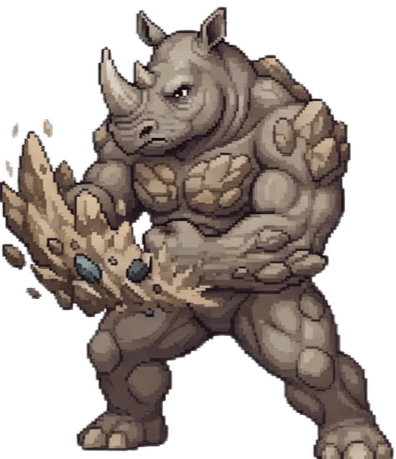
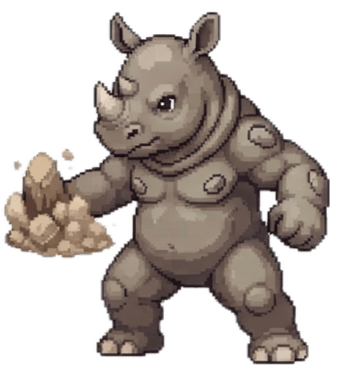
Corregir naming de sprites tras el merge: Rinoceronte y Cernunnos
Rinoceronte pasó a tier 2 en el commit anterior; los 3 pngs subidos
por GitHub seguían el naming antiguo de tier 1, así que se desplazan
un nivel (comun->infrecuente->raro->epico). cernunnos_epico.png había
llegado con el nombre genérico "epico.png" sin renombrar.

Auditoría completa de sprites tras esto: 743/743 personajes y 44/44
zonas con su imagen correspondiente, sin archivos huérfanos.

Claude-Session: https://claude.ai/code/session_01WGc1nBHYXG8wYqh9mMefTY

diff --git a/TODO.md b/TODO.md
@@ -5713,15 +5713,19 @@ Cinco puntos más, con capturas de pantalla reales del usuario jugando:
       duplicados ni referencias rotas tras el cambio.
 - [x] Rinoceronte pasado de tier 1 a tier 2 (petición del usuario): un
       solo cambio de parámetro en su `addFamily` (1 -> 2), que además
-      recalcula solo el nombre de archivo de imagen esperado por cada
-      forma (común/infrecuente/raro -> infrecuente/raro/épico), sin tocar
-      nombres, lore ni el resto de sus datos. Nota importante para el
-      usuario: no existía NINGÚN sprite de Rinoceronte en
-      `assets/creatures` ni antes ni después del cambio (comprobado con
-      la auditoría del punto siguiente), así que no ha habido ningún
-      archivo que renombrar — cuando subas su arte, debe llamarse
-      `rinoceronte_infrecuente.png` / `_raro.png` / `_epico.png` (ya no
-      `_comun.png`).
+      recalcula el nombre de archivo de imagen esperado por cada forma
+      (común/infrecuente/raro -> infrecuente/raro/épico), sin tocar
+      nombres, lore ni el resto de sus datos. El usuario pidió además
+      renombrar los pngs para que se ajustaran: en el momento del cambio
+      no existía ningún sprite todavía, pero un `git merge` posterior
+      (ver más abajo) trajo 3 archivos subidos por el usuario con el
+      naming ANTIGUO (`rinoceronte_comun/infrecuente/raro.png`, arte de
+      cría/adulto/forma final en ese orden). Renombrados a mano con
+      `git mv` para conservar el desplazamiento correcto (comprobado
+      visualmente que el contenido de cada imagen encaja con su nueva
+      rareza): `_raro`->`_epico` (forma final), `_infrecuente`->`_raro`
+      (adulto), `_comun`->`_infrecuente` (cría) — hecho en ese orden para
+      no pisar ningún archivo a mitad de camino.
 - [x] Eliminados los personajes Mariposa y Pelícano (petición del
       usuario): comprobado antes de borrar que ninguna otra parte del
       archivo los referenciaba (ni pools de zona, ni setStatMult, ni
@@ -5733,26 +5737,25 @@ Cinco puntos más, con capturas de pantalla reales del usuario jugando:
       correspondientes sprites"): script contra el motor real que cruza
       el campo `image` de cada entrada de FIGHTERS/MOBS/BOSSES (y el
       nombre de archivo `assets/scenery/<zone.id>.jpg` esperado por cada
-      ZONA) con los archivos que existen de verdad en disco. Resultado
-      reportado en detalle al usuario en el chat: 468/746 sprites de
-      personaje existen y están bien referenciados (0 archivos huérfanos
-      — todo lo que existe se usa), pero **278 sprites de personaje
-      siguen faltando** (89 familias completas — prácticamente todas las
-      últimas ~10 tandas de personajes añadidas: Ganesha, Amaterasu,
-      Susanoo, Anansi, Tlaloc, Hanuman, Kali, Cernunnos, Maui, Pele,
-      Xolotl y el resto del lote de mitologías variadas, todo el lote de
-      animales humanizados de tier 1 y 2, Sigurd/Aquiles/Sansón/Musashi/
-      Guan Yu/Atila/Khagan, Miguel Arcángel/Huitzilopochtli/Ballena/
-      Narval/Lince/Jirafa/Shinigami, Isis/Horus/Freya/Tyr/Hermes/Hefesto
-      y más — lista completa dada en el chat), **11 jefes sin imagen**
-      (Jörmungandr, Hades, Hel, Set, Fafnir, Anzu, Simbionte, Titán
-      Colosal, Kaiju, Grendel, Jersey Devil) y **11 zonas sin fondo**
-      (las mismas 11 zonas "segunda vuelta" de esos jefes — ya
-      reportado como pendiente en una ronda anterior). También 7
-      archivos sueltos en `assets/scenery` (campeon.jpg,
+      ZONA) con los archivos que existen de verdad en disco. La primera
+      pasada (antes de sincronizar con GitHub) encontró 278 sprites de
+      personaje y 11 fondos de zona todavía sin subir — pero al hacer
+      `git fetch`/`git merge` para poder pushear (el usuario había subido
+      cientos de imágenes directamente por GitHub mientras tanto, más un
+      commit suyo comentando la familia Anansi) el merge trajo casi todo
+      ese arte de golpe. Repetida la auditoría tras el merge: de 743
+      sprites de personaje esperados solo faltaban 2 — `cernunnos_epico`
+      (el archivo existía pero se había subido con el nombre genérico
+      `epico.png` sin renombrar; comprobado visualmente que el contenido
+      coincide con la forma intermedia de Cernunnos y corregido con
+      `git mv`) y `rinoceronte_epico` (resuelto por el punto anterior).
+      Tras ambas correcciones: **743/743 sprites de personaje OK, 0
+      huérfanos, 44/44 zonas con fondo**. Quedan 7 archivos sueltos en
+      `assets/scenery` (campeon.jpg, torre.jpg,
       elemental_agua/fuego/rayo/tierra/viento.jpg) que no corresponden a
-      ninguna zona actual y no están referenciados en ningún .js — no se
-      han tocado, solo se reportan como posible limpieza pendiente.
+      ninguna zona actual ni están referenciados en ningún .js — no se
+      han tocado, solo se reportan como posible limpieza pendiente (no
+      son un error, parecen arte de una versión anterior de la UI).
 
 ## Notas
 
